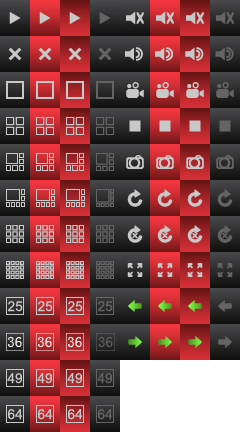
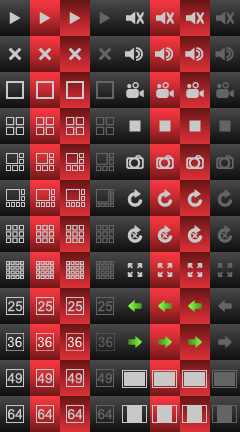
The video stretch option will be saved in the system after it be changed.

Changed region(s): [[0.4958, 0.8125, 1.0, 1.0]]

diff --git a/src/QTTest/chinese_t.ts b/src/QTTest/chinese_t.ts
@@ -1,0 +1,73 @@
+<?xml version="1.0" encoding="utf-8"?>
+<!DOCTYPE TS>
+<TS version="2.0">
+<context>
+    <name>QSubView</name>
+    <message>
+        <source>Close Preview</source>
+        <translation>關閉視頻</translation>
+    </message>
+    <message>
+        <source>Switch Stream</source>
+        <translation>切換碼流</translation>
+    </message>
+    <message>
+        <source>Switch to SubStream</source>
+        <translation>輔碼流</translation>
+    </message>
+    <message>
+        <source>Switch to MainStream</source>
+        <translation>主碼流</translation>
+    </message>
+        <message>
+        <source>Start Record</source>
+        <translation >啟動錄像</translation>
+    </message>
+    <message>
+        <source>Stop Record</source>
+        <translation >停止錄像</translation>
+    </message>
+</context>
+<context>
+    <name>qsubviewEx</name>
+    <message>
+        <source>Close Preview</source>
+        <translation >關閉視頻</translation>
+    </message>
+    <message>
+        <source>Switch Stream</source>
+        <translation >切換碼流</translation>
+    </message>
+    <message>
+        <source>Switch to SubStream</source>
+        <translation >輔碼流</translation>
+    </message>
+    <message>
+        <source>Switch to MainStream</source>
+        <translation >主碼流</translation>
+    </message>
+    <message>
+        <source>Start Record</source>
+        <translation >啟動錄像</translation>
+    </message>
+    <message>
+        <source>Stop Record</source>
+        <translation >停止錄像</translation>
+    </message>
+    <message>
+      <source>Back to Main Window</source>
+      <translation>返回主界面</translation>
+    </message>
+    <message>
+      <source>Suit For Window</source>
+      <translation>視頻適應窗口比例</translation>
+    </message>
+</context>
+  <context>
+    <name>RecordPlayerView</name>
+    <message>
+      <source>Suit For Window</source>
+      <translation>視頻適應窗口比例</translation>
+    </message>
+  </context>
+</TS>

diff --git a/src/functionlibs/commonlibEx/commonlibex.cpp b/src/functionlibs/commonlibEx/commonlibex.cpp
@@ -60,7 +60,12 @@ long __stdcall commonlibEx::QueryInterface( const IID & iid,void **ppv )
 	else if (IID_IPcomBase==iid)
 	{
 		*ppv = static_cast<IPcomBase *>(this);
-	}else{
+	}
+	else if (IID_IWindowSettings == iid)
+	{
+		*ppv = static_cast<IWindowSettings *>(this);
+	}
+	else{
 		*ppv = NULL;
 		return E_NOINTERFACE;
 	}
@@ -2734,4 +2739,45 @@ bool commonlibEx::getIsPersian()
 	}
 
 	return bIsPersian;
+}
+
+void commonlibEx::setEnableStretch( int uiWnd,bool bEnable )
+{
+	QSqlQuery _query(*m_db);
+	int nStretch = bEnable ? 1 : 0;
+	QString sql = QString("update window_settings set stretch='%1' where wnd_id='%2'").arg(nStretch).arg(uiWnd);
+	_query.exec(sql);
+	_query.finish();
+}
+
+bool commonlibEx::getEnableStretch( int uiWnd )
+{
+	QSqlQuery _query(*m_db);
+	QString sql = QString("select stretch from window_settings where wnd_id='%1'").arg(uiWnd);
+	_query.exec(sql);
+	int nStretch;
+	if (_query.next())
+	{
+		nStretch = _query.value(0).toInt();
+	}
+	return nStretch == 1 ? true : false;
+}
+
+void commonlibEx::setAllWindowStretch( bool bEnable )
+{
+	QSqlQuery _query(*m_db);
+	int nStretch = bEnable ? 1 : 0;
+	QString sql = QString("update window_settings set stretch='%1'").arg(nStretch);
+	_query.exec(sql);
+	_query.finish();
+}
+
+void commonlibEx::setChannelInWnd( int uiWnd,int nChl )
+{
+	throw std::exception("The method or operation is not implemented.");
+}
+
+int commonlibEx::getChannelInWnd( int nWnd )
+{
+	throw std::exception("The method or operation is not implemented.");
 }

diff --git a/src/plugins/PreviewWindows/qpreviewwindowsex.cpp b/src/plugins/PreviewWindows/qpreviewwindowsex.cpp
@@ -13,6 +13,9 @@ qpreviewwindowsex::qpreviewwindowsex(QWidget *parent)
 	for (int i=0;i<ARRAY_SIZE(m_sPreviewWnd);i++)
 	{
 		m_sPreviewWnd[i].setParent(this);
+		m_sPreviewWnd[i].setCurWindId(i);
+		m_sPreviewWnd[i].initAfterConstructor();
+
 		connect(&m_sPreviewWnd[i],SIGNAL(sgmousePressEvent(QWidget *,QMouseEvent *)),this,SLOT(subWindowMousePress(QWidget *,QMouseEvent *)));
 		connect(&m_sPreviewWnd[i],SIGNAL(sgmouseDoubleClick(QWidget *,QMouseEvent *)),this,SLOT(subWindowDblClick(QWidget *,QMouseEvent *)));
 		connect(&m_sPreviewWnd[i],SIGNAL(sgconnectStatus(QVariantMap,QWidget *)),this,SLOT(subWindowConnectStatus(QVariantMap,QWidget *)));
@@ -249,7 +252,6 @@ int qpreviewwindowsex::OpenCameraInWnd( unsigned int uiWndIndex ,const QString s
 		qDebug()<<__FUNCTION__<<__LINE__<<"input uiWndIndex value is error ";
 		return 1;
 	}else{
-		m_sPreviewWnd[uiWndIndex].setCurWindId(uiWndIndex);
 		m_sPreviewWnd[uiWndIndex].openPreview(uiChannelId);
 		return 0;
 	}
@@ -522,5 +524,14 @@ void qpreviewwindowsex::subWindowAuthority( QVariantMap evMap,QWidget *wnd )
 	evMap.insert("WPageId",i);
 	EventProcCall("Authority",evMap);
 	return ;
+}
+
+void qpreviewwindowsex::AllWindowStretch( bool bEnable )
+{
+	int i;
+	for (i = 0 ;i < ARRAY_SIZE(m_sPreviewWnd); i++)
+	{
+		m_sPreviewWnd[i].enableStretch(bEnable);
+	}
 }
 

diff --git a/src/functionlibs/commonlibEx/commonlibex.h b/src/functionlibs/commonlibEx/commonlibex.h
@@ -11,6 +11,7 @@
 #include <IDisksSetting.h>
 #include <ISetRecordTime.h>
 #include <ILocalSetting.h>
+#include <IWindowSettings.h>
 #include <QMutex>
 #include "DisksInfo.h"
 class  commonlibEx:public IUserManager
@@ -21,6 +22,7 @@ class  commonlibEx:public IUserManager
 	,public IDisksSetting
 	,public ISetRecordTime
 	,public ILocalSetting
+	,public IWindowSettings
 {
 public:
 	commonlibEx();
@@ -140,6 +142,13 @@ public:
 	virtual QStringList GetRecordTimeBydevId( int chl_id );
 	virtual QVariantMap GetRecordTimeInfo( int recordtime_id );
 
+	// IWindowSettings
+	virtual void setEnableStretch( int uiWnd,bool bEnable );
+	virtual bool getEnableStretch( int uiWnd );
+	virtual void setAllWindowStretch( bool bEnable );
+	virtual void setChannelInWnd( int uiWnd,int nChl );
+	virtual int getChannelInWnd( int nWnd );
+
 
 	//ILocalSetting
 	int setLanguage(const QString & sLanguage);
@@ -163,6 +172,9 @@ public:
 private:
 	bool CheckTimeFormat(QString sTime);
 	bool checkDeviceNameIsExist(QString sDevcie);
+
+
+
 private:
 	QSqlDatabase * m_db;
 	static QMutex Group_lock;

diff --git a/src/plugins/PreviewWindows/QSubviewRun.cpp b/src/plugins/PreviewWindows/QSubviewRun.cpp
@@ -42,7 +42,8 @@ QSubviewRun::QSubviewRun(void):m_pdeviceClient(NULL),
 	m_nSleepSwitch(0),
 	m_nCheckPreCount(0),
 	m_nSecondPosition(0),
-	m_nMotionRecordTime(10)
+	m_nMotionRecordTime(10),
+	m_bStretch(true)
 {
 	connect(this,SIGNAL(sgbackToMainThread(QVariantMap)),this,SLOT(slbackToMainThread(QVariantMap)));
 	connect(this,SIGNAL(sgsetRenderWnd()),this,SLOT(slsetRenderWnd()),Qt::BlockingQueuedConnection);
@@ -137,6 +138,10 @@ void QSubviewRun::run()
 							m_pIVideoRender=NULL;
 						}
 						pcomCreateInstance(CLSID_DDrawRender,NULL,IID_IVideoRender,(void**)&m_pIVideoRender);
+						if (NULL != m_pIVideoRender)
+						{
+							m_pIVideoRender->enableStretch(m_bStretch);
+						}
 						if (NULL!=m_pRecordDat)
 						{
 							m_pRecordDat->Release();
@@ -2194,6 +2199,7 @@ void QSubviewRun::enableStretch( bool bStretch )
 	{
 		m_pIVideoRender->enableStretch(bStretch);
 	}
+	m_bStretch = bStretch;
 }
 
 int cbConnectRState( QString evName,QVariantMap evMap,void *pUser )

diff --git a/include/IWindowSettings.h b/include/IWindowSettings.h
@@ -1,0 +1,20 @@
+#ifndef __IWINDOW_SETTINGS_HEAD_FILE__
+#define __IWINDOW_SETTINGS_HEAD_FILE__
+
+#include "libpcom.h"
+
+interface IWindowSettings : public IPComBase
+{
+	virtual void setEnableStretch(int uiWnd,bool bEnable) = 0;
+
+	virtual bool getEnableStretch(int uiWnd) = 0;
+
+	virtual void setAllWindowStretch(bool bEnable) = 0;
+
+	virtual void setChannelInWnd(int uiWnd,int nChl) = 0;
+
+	virtual int getChannelInWnd(int nWnd) = 0;
+};
+
+
+#endif

diff --git a/src/common/guid.cpp b/src/common/guid.cpp
@@ -382,3 +382,6 @@ const CLSID CLSID_onvifDevice  =
 // {3FFFA527-FF6E-4D27-9658-ED6AE40B463D}
 const GUID CLSID_OnvifProtocol = 
 { 0x3fffa527, 0xff6e, 0x4d27, { 0x96, 0x58, 0xed, 0x6a, 0xe4, 0xb, 0x46, 0x3d } };
+// {878A62A1-A298-4AEA-BF48-EBC87EAD3E5B}
+const IID IID_IWindowSettings  = 
+{ 0x878a62a1, 0xa298, 0x4aea, { 0xbf, 0x48, 0xeb, 0xc8, 0x7e, 0xad, 0x3e, 0x5b } };

diff --git a/include/guid.h b/include/guid.h
@@ -112,4 +112,5 @@ extern const GUID CLSID_LocalPlayerEx;
 extern const IID IID_IVideoDisplayOption;
 extern const CLSID CLSID_onvifDevice;
 extern const GUID CLSID_OnvifProtocol;
+extern const IID IID_IWindowSettings;
 #endif
